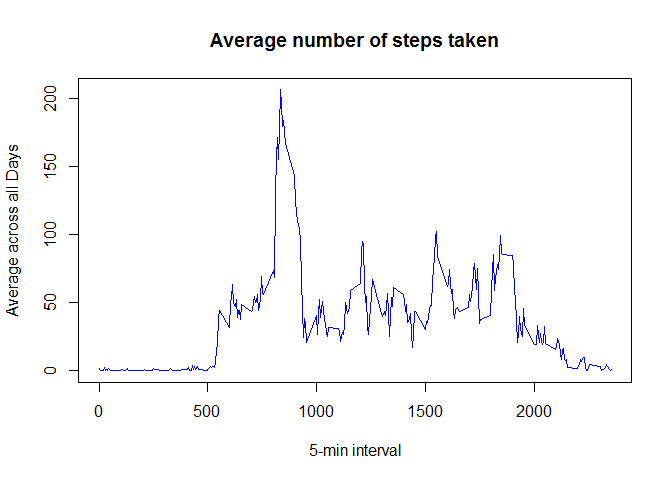
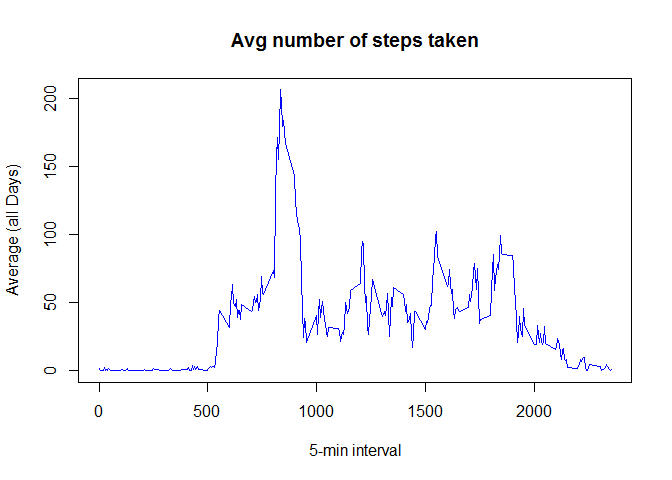
Checking in with some modifications

Changed region(s): [[0.3125, 0.0625, 0.75, 0.125], [0.0, 0.2812, 0.0312, 0.6562]]

diff --git a/PA1_template.html b/PA1_template.html
@@ -67,8 +67,8 @@ mydatanew&lt;-na.omit(mydata)</code></pre>
 <div id="make-a-histogram-of-the-total-number-of-steps-taken-each-day" class="section level3">
 <h3>1. Make a histogram of the total number of steps taken each day</h3>
 <pre class="r"><code>tsteps &lt;- aggregate(steps ~ date, mydatanew, sum)
-hist(tsteps$steps , main = &quot;Total steps by day&quot;, xlab = &quot;steps&quot;, col = &quot;red&quot;)</code></pre>
[1 lines of base64/hex data omitted]
+hist(tsteps$steps , main = &quot;Total number of steps for day&quot;, xlab = &quot;sum of steps&quot;, col = &quot;green&quot;)</code></pre>
[1 lines of base64/hex data omitted]
 </div>
 <div id="calculate-and-report-the-mean-and-median-total-number-of-steps-taken-per-day" class="section level3">
 <h3>2. Calculate and report the mean and median total number of steps taken per day</h3>
@@ -87,9 +87,9 @@ print(sprintf(&quot;Median of steps per day: %f &quot;, tstepsDayMedian))</code>
 <pre class="r"><code>timeseriesplot &lt;- tapply(mydatanew$steps, mydatanew$interval, mean)
 
 plot(row.names(timeseriesplot), timeseriesplot, type = &quot;l&quot;, xlab = &quot;5-min interval&quot;, 
-     ylab = &quot;Average across all Days&quot;, main = &quot;Average number of steps taken&quot;, 
+     ylab = &quot;Average (all Days)&quot;, main = &quot;Avg number of steps taken&quot;, 
      col = &quot;blue&quot;)</code></pre>
[2 lines of base64/hex data omitted]
 </div>
 <div id="which-5-minute-interval-on-average-across-all-the-days-in-the-dataset-contains-the-maximum-number-of-steps" class="section level3">
 <h3>2. Which 5-minute interval, on average across all the days in the dataset, contains the maximum number of steps?</h3>
@@ -127,8 +127,8 @@ sum(is.na(mydataimputed))</code></pre>
 <div id="make-a-histogram-of-the-total-number-of-steps-taken-each-day-and-calculate-and-report-the-mean-and-median-total-number-of-steps-taken-per-day.-do-these-values-differ-from-the-estimates-from-the-first-part-of-the-assignment-what-is-the-impact-of-imputing-missing-data-on-the-estimates-of-the-total-daily-number-of-steps" class="section level3">
 <h3>4. Make a histogram of the total number of steps taken each day and Calculate and report the mean and median total number of steps taken per day. Do these values differ from the estimates from the first part of the assignment? What is the impact of imputing missing data on the estimates of the total daily number of steps?</h3>
 <pre class="r"><code>tstepsnew &lt;- aggregate(steps ~ date, mydataimputed, sum,na.rm=TRUE)
-hist(tstepsnew$steps , main = &quot;Total steps by day&quot;, xlab = &quot;steps&quot;, col = &quot;red&quot;)</code></pre>
[1 lines of base64/hex data omitted]
+hist(tstepsnew$steps , main = &quot;Total steps by day&quot;, xlab = &quot;steps&quot;, col = &quot;green&quot;)</code></pre>
[1 lines of base64/hex data omitted]
 <pre class="r"><code>tstepsDayMeannew &lt;- mean(tstepsnew$steps)
 print(sprintf(&quot;Mean of steps per day: %f &quot;, tstepsDayMeannew))</code></pre>
 <pre><code>## [1] &quot;Mean of steps per day: 10766.188679 &quot;</code></pre>

diff --git a/PA1_template.md b/PA1_template.md
@@ -16,7 +16,7 @@ mydatanew<-na.omit(mydata)
 
 ```r
 tsteps <- aggregate(steps ~ date, mydatanew, sum)
-hist(tsteps$steps , main = "Total steps by day", xlab = "steps", col = "red")
+hist(tsteps$steps , main = "Total number of steps for day", xlab = "sum of steps", col = "green")
 ```
 
 ![](./PA1_template_files/figure-html/unnamed-chunk-2-1.png) 
@@ -48,7 +48,7 @@ print(sprintf("Median of steps per day: %f ", tstepsDayMedian))
 timeseriesplot <- tapply(mydatanew$steps, mydatanew$interval, mean)
 
 plot(row.names(timeseriesplot), timeseriesplot, type = "l", xlab = "5-min interval", 
-     ylab = "Average across all Days", main = "Average number of steps taken", 
+     ylab = "Average (all Days)", main = "Avg number of steps taken", 
      col = "blue")
 ```
 
@@ -103,7 +103,7 @@ sum(is.na(mydataimputed))
 
 ```r
 tstepsnew <- aggregate(steps ~ date, mydataimputed, sum,na.rm=TRUE)
-hist(tstepsnew$steps , main = "Total steps by day", xlab = "steps", col = "red")
+hist(tstepsnew$steps , main = "Total steps by day", xlab = "steps", col = "green")
 ```
 
 ![](./PA1_template_files/figure-html/unnamed-chunk-9-1.png) 
